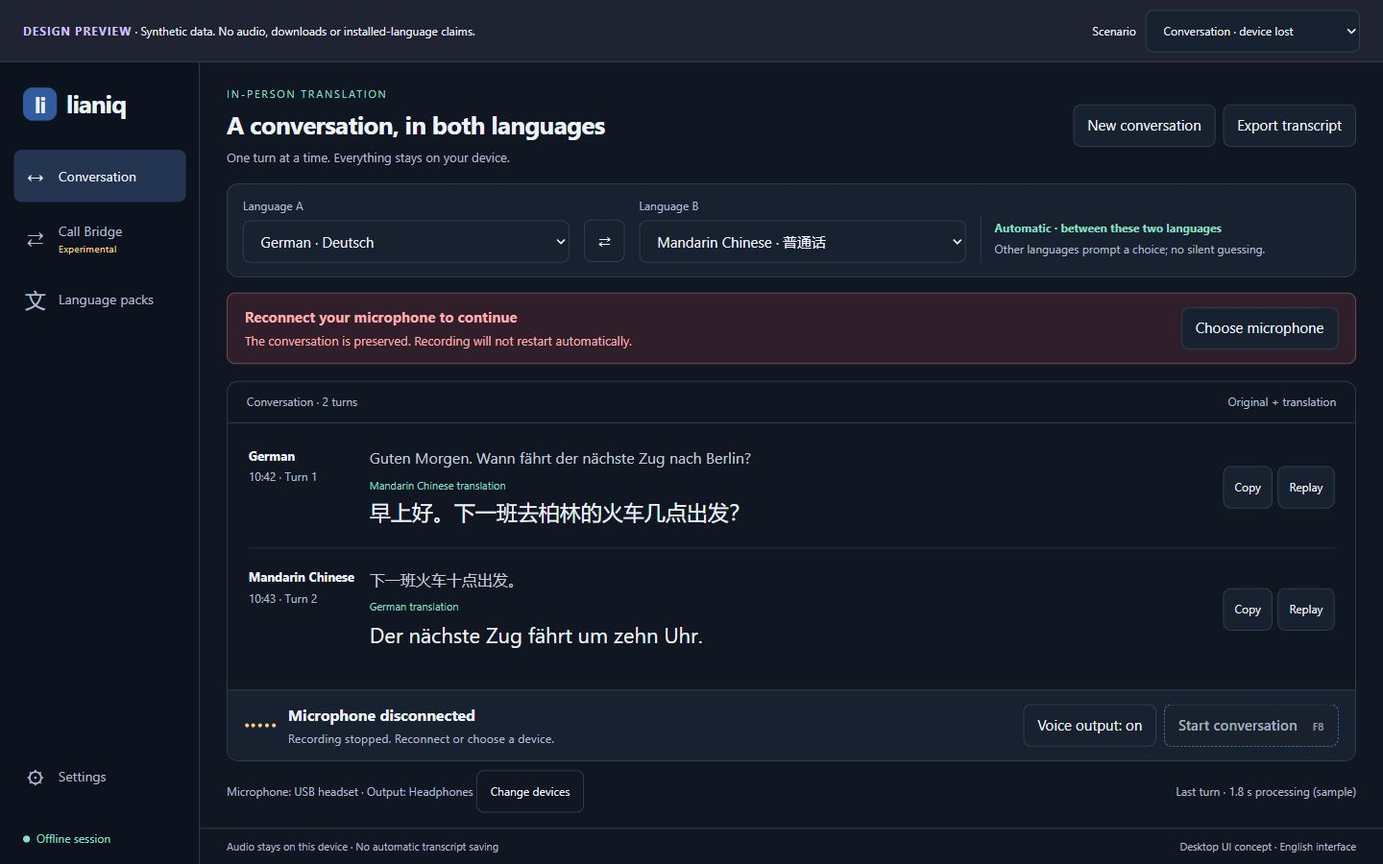
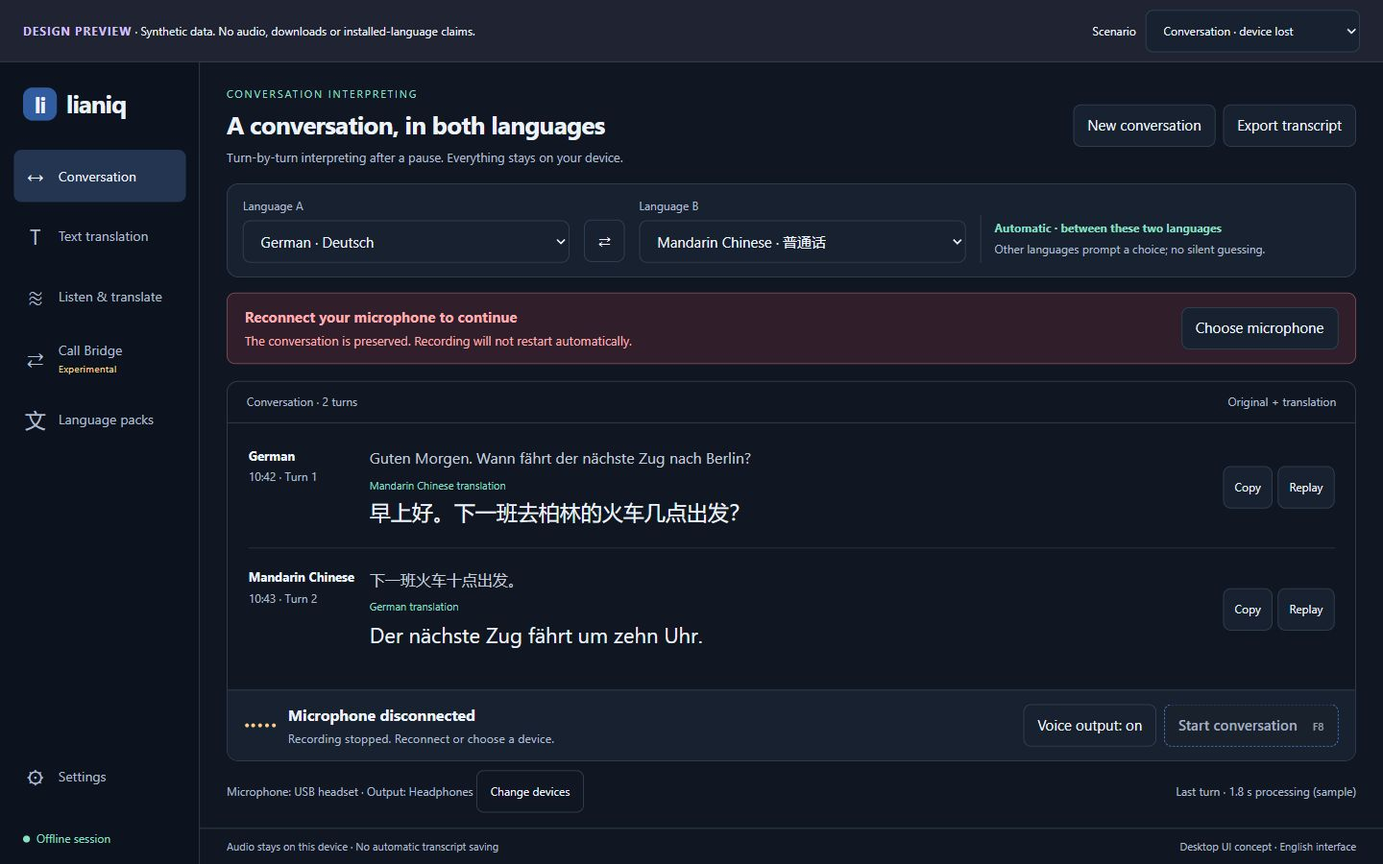
docs: add typed translation and silent listening workflows

diff --git a/docs/ui/target/preview.js b/docs/ui/target/preview.js
@@ -13,14 +13,16 @@ const examples = {
 };
 let state = 'conversation', first = 'de', second = 'zh', turns = true, setupStep = 0;
 let bridgeConfigured = false, tested = new Set();
+let textDraft = examples.de[0], textResult = true;
 const $ = selector => document.querySelector(selector);
 const name = code => languages[code].name;
 const pairReady = () => ['de-zh','zh-de','en-es','es-en'].includes(`${first}-${second}`);
 const voicesReady = () => pairReady() && ![first,second].includes('es');
 const options = selected => Object.entries(languages).map(([code, value]) => `<option value="${code}" ${code === selected ? 'selected' : ''}>${value.name} · ${value.native}</option>`).join('');
 function notify(message) { $('#toast').textContent = message; $('#toast').hidden = false; clearTimeout(window.toastTimer); window.toastTimer = setTimeout(() => $('#toast').hidden = true, 4500); }
-function view() { return state.startsWith('bridge') ? 'bridge' : ['languages', 'setup'].includes(state) ? state : 'conversation'; }
+function view() { return state.startsWith('bridge') ? 'bridge' : state.startsWith('speech-text') ? 'speech-text' : state.startsWith('text') ? 'text' : ['languages', 'setup'].includes(state) ? state : 'conversation'; }
 function pair() {
+  if (['text','speech-text'].includes(view())) return `<div class="pair-bar"><label class="field">Source language<select id="language-a">${options(first)}</select></label><button class="swap" data-action="swap" aria-label="Swap selected languages">⇄</button><label class="field">Target language<select id="language-b">${options(second)}</select></label><div class="pair-note"><strong>${view()==='text'?'One direction · text in, translation out':'One direction · speech in, text out'}</strong>${view()==='text'?'No microphone or speech-recognition model required.':'No spoken output. Only the source language is recognized.'}</div></div>`;
   return `<div class="pair-bar"><label class="field">${view() === 'bridge' ? 'Your language' : 'Language A'}<select id="language-a">${options(first)}</select></label><button class="swap" data-action="swap" aria-label="Swap selected languages">⇄</button><label class="field">${view() === 'bridge' ? 'Partner’s language' : 'Language B'}<select id="language-b">${options(second)}</select></label><div class="pair-note"><strong>${view() === 'bridge' ? 'Fixed direction for each audio lane' : 'Automatic · between these two languages'}</strong>${view() === 'bridge' ? 'Change the pair only while stopped.' : 'Other languages prompt a choice; no silent guessing.'}</div></div>`;
 }
 function heading(eyebrow, title, subtitle, actions = '') {return `<div class="heading"><div><div class="eyebrow">${eyebrow}</div><h1>${title}</h1><p>${subtitle}</p></div><div class="actions">${actions}</div></div>`;}
@@ -33,7 +35,7 @@ function conversation() {
   const empty = state === 'loading' || !turns;
   const status = {conversation:['Listening','Speak in short turns. Pause when you finish.'],ready:['Ready to start','Your microphone is off.'],speaking:['Speaking · microphone paused','Please wait until listening resumes.'],translating:['Translating','Your turn is being processed locally.'],loading:['Loading offline models','Preparing speech recognition and translation…'],error:['Microphone disconnected','Recording stopped. Reconnect or choose a device.']}[state];
   const blocked = ['loading','error'].includes(state) || !pairReady();
-  return heading('In-person translation','A conversation, in both languages','One turn at a time. Everything stays on your device.', '<button data-action="new">New conversation</button><button data-action="export" '+(empty?'disabled':'')+'>Export transcript</button>') + pair() + capabilityWarning() +
+  return heading('Conversation interpreting','A conversation, in both languages','Turn-by-turn interpreting after a pause. Everything stays on your device.', '<button data-action="new">New conversation</button><button data-action="export" '+(empty?'disabled':'')+'>Export transcript</button>') + pair() + capabilityWarning() +
   (state === 'error' ? '<div class="banner error" role="alert"><div><strong>Reconnect your microphone to continue</strong><p>The conversation is preserved. Recording will not restart automatically.</p></div><button data-view="setup">Choose microphone</button></div>' : '') +
   `<section class="conversation" aria-label="Conversation transcript"><div class="section-bar"><span>Conversation ${empty?'':'· 2 turns'}</span><span>Original + translation</span></div><div class="turns">` +
   (empty ? `<div class="empty"><div class="symbol" aria-hidden="true">↔</div><h2>${state === 'loading' ? 'Preparing your languages' : 'Make room for understanding'}</h2><p>${state === 'loading' ? 'The first start may take longer. Your microphone is still off.' : 'Press Start, speak in either selected language, then pause for the translation.'}</p></div>` : [0,1].map(i=>{const source=i?second:first,target=i?first:second;return `<article class="turn"><div class="turn-meta"><strong>${name(source)}</strong><span>10:4${i+2} · Turn ${i+1}</span></div><div><p class="original" lang="${source}" dir="auto">${examples[source][i]}</p><div class="translation" lang="${target}" dir="auto"><small lang="en">${name(target)} translation</small>${examples[target][i]}</div></div><div class="turn-actions"><button data-action="copy" data-turn="${i}" aria-label="Copy turn ${i+1}">Copy</button><button data-action="replay" ${target==='es'?'disabled title="Spanish voice not installed"':''} aria-label="Replay turn ${i+1} translation">Replay</button></div></article>`;}).join('')) +
@@ -55,29 +57,55 @@ function setup() {
   (setupStep===0?`<p>Select the languages spoken in this conversation. Interface language is a separate setting.</p><div class="settings-fields"><label class="field">Language A<select id="language-a">${options(first)}</select></label><label class="field">Language B<select id="language-b">${options(second)}</select></label></div>${capabilityWarning()}<div class="help">Automatic detection is limited to this pair. If recognition is uncertain or another language is detected, the app asks you to choose instead of translating into an arbitrary language.</div><button data-view="languages">Review model and voice readiness</button>`:
   setupStep===1?'<p>Generic devices below illustrate the setup flow.</p><div class="settings-fields"><label class="field">Microphone<select><option>USB headset · microphone</option></select></label><label class="field">Playback device<select><option>Headphones · local playback</option></select></label></div><div class="actions"><button data-action="mic-test">Test microphone</button><button data-action="speaker-test">Play test sound</button><button data-action="refresh">Refresh devices</button></div><div class="help">A disconnected or ambiguous device requires your attention. Call Bridge never switches silently to Windows default audio.</div>':`<p>${name(first)} ↔ ${name(second)}</p><div class="help"><strong>Example readiness summary</strong><br>✓ Speech recognition for both selected languages<br>✓ Both translation directions<br>✓ Microphone and headphones selected<br>Voice output is optional for in-person text translation.</div><label class="check"><input type="checkbox" ${voicesReady()?'checked':'disabled'}> Enable spoken translations when both voices are ready</label><p class="muted">No transcript is saved automatically. Export only when you choose.</p>`) + `<div class="bridge-footer"><button data-action="setup-back" ${setupStep===0?'disabled':''}>Back</button><button class="primary" data-action="setup-next" ${!pairReady()?'disabled':''}>${setupStep===2?'Open conversation':'Continue'}</button></div></section></div>`;
 }
+function escapeText(value) {return value.replaceAll('&','&amp;').replaceAll('<','&lt;').replaceAll('>','&gt;').replaceAll('"','&quot;');}
+function textTranslation() {
+  const speaking = state === 'text-speaking', voiceReady = pairReady() && second !== 'es';
+  return heading('Text translation','Write it. Translate it. Say it.','Translate locally, then read or play the translated text.') + pair() + capabilityWarning() +
+    `<div class="translation-workspace"><section class="editor-panel"><div class="section-bar"><label for="source-draft">${name(first)} · Your text</label><span>Editable source</span></div><textarea id="source-draft" lang="${first}" dir="auto" placeholder="Type or paste text to translate…" ${speaking?'disabled':''}>${escapeText(textDraft)}</textarea><div class="editor-actions"><small>No microphone access</small><button class="primary" data-action="translate-text" ${!pairReady()||speaking||!textDraft.trim()?'disabled':''}>Translate</button></div></section><section class="editor-panel"><div class="section-bar"><span>${name(second)} · Translation</span><span>Always visible when speaking</span></div><div class="translated-draft" lang="${second}" dir="auto">${textResult&&pairReady()?examples[second][0]:'Your translation will appear here.'}</div><div class="editor-actions"><button data-action="copy-text" ${!textResult||!pairReady()?'disabled':''}>Copy translation</button><button data-action="${speaking?'stop-text-speech':'speak-text'}" ${!textResult||!voiceReady?'disabled':''}>${speaking?'Stop playback':'Play translation'}</button></div></section></div><div class="session-controls text-status"><div class="status" role="status"><div class="meter paused" aria-hidden="true"><i></i><i></i><i></i></div><div><strong>${speaking?'Speaking the translation':!voiceReady?'Text available · target voice unavailable':'Text translation ready'}</strong><small>${speaking?'The translated text remains visible. Your microphone stays off.':!voiceReady?'Install the target-language voice to play this translation.':'Playback is optional and starts only when you choose Play translation.'}</small></div></div><span class="badge">Microphone off</span></div><p class="notice">Preview: Translate works with the supplied example sentence only. Other input is preserved, but no translation engine runs in this mockup.</p>`;
+}
+function speechToText() {
+  const listening = state === 'speech-text';
+  return heading('Speech-to-translated-text','Listen in one language. Read in another.','A fixed source and target. Translation appears after each speech pause.','<button data-action="export">Export transcript</button>') + pair() + capabilityWarning() +
+    `<section class="conversation"><div class="section-bar"><span>Recognized speech + translated text</span><span>No voice output</span></div><div class="turns">${[0,1].map((i)=>`<article class="turn"><div class="turn-meta"><strong>${name(first)}</strong><span>Segment ${i+1}</span></div><div><p class="original" lang="${first}" dir="auto">${examples[first][i]}</p><div class="translation" lang="${second}" dir="auto"><small lang="en">${name(second)} translation</small>${examples[second][i]}</div></div></article>`).join('')}</div><div class="session-controls"><div class="status" role="status"><div class="meter ${listening?'':'paused'}" aria-hidden="true"><i></i><i></i><i></i><i></i></div><div><strong>${listening?'Listening to '+name(first):'Stopped · transcript preserved'}</strong><small>${listening?'Translating into '+name(second)+'. Speakers remain silent.':'Microphone off. Resume when you are ready.'}</small></div></div><button class="${listening?'danger':'primary'}" data-action="${listening?'stop-speech-text':'start-speech-text'}" ${!pairReady()?'disabled':''}>${listening?'Stop listening':'Start listening'} <span class="key">${listening?'F9':'F8'}</span></button></div></section><div class="device-strip"><span>Microphone: USB headset <button data-view="setup">Change microphone</button></span><span>No voice model or speaker device required</span></div>`;
+}
 function render() {
   $('#content').dataset.surface = view();
   document.querySelectorAll('[data-view]').forEach(el=>el.removeAttribute('aria-current'));
   document.querySelector(`nav [data-view="${view()}"]`).setAttribute('aria-current','page');
   $('#scenario').value=state;
-  $('#content').innerHTML = view()==='bridge'?bridge():view()==='languages'?packs():view()==='setup'?setup():conversation();
-  const locked = ['conversation','speaking','translating','bridge-live','bridge-error'].includes(state);
+  $('#content').innerHTML = view()==='text'?textTranslation():view()==='speech-text'?speechToText():view()==='bridge'?bridge():view()==='languages'?packs():view()==='setup'?setup():conversation();
+  const locked = ['conversation','speaking','translating','bridge-live','bridge-error','text-speaking','speech-text'].includes(state);
   document.querySelectorAll('#language-a,#language-b,[data-action="swap"]').forEach(el=>el.disabled=locked);
 }
 function navigate(next) {clearTimeout(window.toastTimer); $('#toast').hidden=true; state=next;location.hash=next;render();}
-$('#scenario').addEventListener('change', e=>{ if(e.target.value==='ready')turns=false; else if(['conversation','speaking','translating'].includes(e.target.value))turns=true; navigate(e.target.value); });
+$('#scenario').addEventListener('change', e=>{ if(e.target.value==='ready')turns=false; else if(['conversation','speaking','translating'].includes(e.target.value))turns=true; if(e.target.value.startsWith('text')){textDraft=examples[first][0];textResult=true;} navigate(e.target.value); });
 document.addEventListener('change', e=>{
   if(e.target.id==='language-a') first=e.target.value;
   else if(e.target.id==='language-b') second=e.target.value;
   else if(e.target.matches('.route-select')) {bridgeConfigured=[...document.querySelectorAll('.route-select')].every(s=>s.value);tested.clear(); const button=$('[data-action="bridge-start"]');button.disabled=true;return;}
   else return;
+  if(view()==='text'){textDraft=examples[first][0];textResult=false;}
   tested.clear();render();
+});
+document.addEventListener('input', e=>{
+  if(e.target.id!=='source-draft')return;
+  textDraft=e.target.value;textResult=false;
+  $('.translated-draft').textContent='Source changed. Translate again to update the result.';
+  $('[data-action="speak-text"]').disabled=true;
+  $('[data-action="copy-text"]').disabled=true;
+  $('[data-action="translate-text"]').disabled=!textDraft.trim()||!pairReady();
 });
 document.addEventListener('click', async e=>{
   const button=e.target.closest('button'); if(!button||button.disabled)return;
-  if(button.dataset.view){navigate(button.dataset.view==='conversation'?'ready':button.dataset.view);return;}
+  if(button.dataset.view){navigate(button.dataset.view==='conversation'?'ready':button.dataset.view==='speech-text'?'speech-text-ready':button.dataset.view);return;}
   switch(button.dataset.action){
-    case 'swap': [first,second]=[second,first];tested.clear();render();break;
+    case 'swap': [first,second]=[second,first];if(view()==='text'){textDraft=examples[first][0];textResult=false;}tested.clear();render();break;
+    case 'translate-text':if(textDraft.trim()!==examples[first][0]){notify('Preview only: arbitrary text is not translated. Use the supplied sample or keep your draft for design review.');return;}textResult=true;render();break;
+    case 'speak-text':navigate('text-speaking');break;
+    case 'stop-text-speech':navigate('text');break;
+    case 'start-speech-text':navigate('speech-text');break;
+    case 'stop-speech-text':navigate('speech-text-ready');break;
+    case 'copy-text':try{await navigator.clipboard.writeText(examples[second][0]);notify('Example translation copied.');}catch{notify('Clipboard unavailable.');}break;
     case 'start':turns=true;navigate('conversation');break;
     case 'stop':navigate('ready');break;
     case 'new':if(confirm('Clear the example conversation? Unsaved turns will be removed.')){turns=false;navigate('ready');}break;
@@ -95,7 +123,7 @@ document.addEventListener('click', async e=>{
     default:notify('Preview only: no device access, downloads or sound.');
   }
 });
-document.addEventListener('keydown', e=>{if(e.key==='F9'){e.preventDefault();navigate(view()==='bridge'?'bridge':'ready');}if(e.key==='F8'&&view()==='conversation'&&state==='ready'&&pairReady()){e.preventDefault();turns=true;navigate('conversation');}});
+document.addEventListener('keydown', e=>{if(e.key==='F9'){e.preventDefault();navigate(view()==='text'?'text':view()==='speech-text'?'speech-text-ready':view()==='bridge'?'bridge':'ready');}if(e.key==='F8'&&view()==='conversation'&&state==='ready'&&pairReady()){e.preventDefault();turns=true;navigate('conversation');}else if(e.key==='F8'&&state==='speech-text-ready'&&pairReady()){e.preventDefault();navigate('speech-text');}});
 window.addEventListener('hashchange',()=>{const next=location.hash.slice(1);if([...$('#scenario').options].some(o=>o.value===next)){state=next;render();}});
 if([...$('#scenario').options].some(o=>o.value===location.hash.slice(1)))state=location.hash.slice(1);
 if(state==='ready')turns=false;

diff --git a/docs/ui/target/styles.css b/docs/ui/target/styles.css
@@ -48,6 +48,7 @@
 .app-header nav button:last-child {margin-top:auto}
 .nav-icon {width:24px;flex-shrink:0;text-align:center;font-size:22px}
 .nav-label {font-size:14px}
+.nav-hint {display:block;color:var(--muted);font-size:11px}
 .tiny {margin-top:4px}
 .privacy {margin:0;padding:0 10px}
 main {min-width:0;min-height:0;overflow:auto;padding:24px 28px 16px}
@@ -66,7 +67,7 @@ h1 {font-size:26px}
 .bridge-footer {margin-top:14px}
 .pack {padding:15px 0;grid-template-columns:minmax(130px,1fr) 1.2fr 1fr auto}
 .table-head {grid-template-columns:minmax(130px,1fr) 1.2fr 1fr auto}
-main[data-surface="conversation"] {display:flex;flex-direction:column}
+main[data-surface="conversation"],main[data-surface="text"],main[data-surface="speech-text"] {display:flex;flex-direction:column}
 .conversation {display:flex;flex-direction:column;flex:1;min-height:260px}
 .turns {min-height:0;flex:1;overflow:auto}
 .turn {grid-template-columns:110px minmax(0,1fr) auto;gap:16px}
@@ -75,6 +76,12 @@ main[data-surface="conversation"] {display:flex;flex-direction:column}
 .empty {min-height:240px}
 .device-strip {margin-top:10px}
 .setup {grid-template-columns:180px minmax(0,1fr);gap:24px}
+.translation-workspace {display:grid;grid-template-columns:minmax(0,1fr) minmax(0,1fr);gap:18px;flex:1;min-height:280px}
+.editor-panel {display:flex;flex-direction:column;min-width:0;border:1px solid var(--line);border-radius:var(--radius);overflow:hidden}
+.editor-panel textarea,.translated-draft {flex:1;min-height:180px;padding:24px;font:22px/1.65 "Segoe UI",system-ui,sans-serif;color:var(--text);background:var(--well);border:0;resize:none;overflow:auto;overflow-wrap:anywhere}
+.editor-panel textarea:focus-visible {outline:3px solid var(--focus);outline-offset:-4px}
+.editor-actions {display:flex;align-items:center;justify-content:space-between;gap:12px;flex-wrap:wrap;padding:14px;background:var(--panel)}
+.text-status {margin-top:16px;border:1px solid var(--line);border-radius:var(--radius)}
 main[data-surface="bridge"] .panel {padding:14px}
 main[data-surface="bridge"] .route-head {margin-bottom:10px}
 main[data-surface="bridge"] .route-step {padding-bottom:8px}
@@ -100,6 +107,7 @@ main[data-surface="bridge"] .bridge-footer {position:sticky;bottom:0;background:
 @media(max-width:760px) {
   .app {height:calc(100vh - 114px)}
   .two-col,.setup {grid-template-columns:minmax(0,1fr)}
+  .translation-workspace {grid-template-columns:minmax(0,1fr);flex:none}
   .pack {grid-template-columns:minmax(0,1fr) minmax(0,1fr)}
   .table-head {display:none}
   .heading,.session-controls,.device-strip,.bridge-footer {align-items:flex-start;flex-direction:column}

diff --git a/docs/ui/target/index.html b/docs/ui/target/index.html
@@ -17,6 +17,10 @@
       <option value="translating">Conversation · translating</option>
       <option value="loading">Conversation · loading</option>
       <option value="error">Conversation · device lost</option>
+      <option value="text">Text translation · text result</option>
+      <option value="text-speaking">Text translation · spoken result</option>
+      <option value="speech-text">Speech to text · listening</option>
+      <option value="speech-text-ready">Speech to text · ready</option>
       <option value="bridge">Call Bridge · setup</option>
       <option value="bridge-live">Call Bridge · active</option>
       <option value="bridge-error">Call Bridge · muted lane</option>
@@ -29,6 +33,8 @@
       <a class="brand" href="#conversation" aria-label="Lianiq conversation"><span class="brand-mark">li</span>lianiq</a>
       <nav aria-label="Main navigation">
         <button data-view="conversation" title="Conversation" aria-label="Conversation"><span class="nav-icon" aria-hidden="true">↔</span><span class="nav-label">Conversation</span></button>
+        <button data-view="text" title="Text translation" aria-label="Text translation"><span class="nav-icon" aria-hidden="true">T</span><span class="nav-label">Text translation</span></button>
+        <button data-view="speech-text" title="Listen & translate" aria-label="Listen & translate"><span class="nav-icon" aria-hidden="true">≋</span><span class="nav-label">Listen &amp; translate</span></button>
         <button data-view="bridge" title="Call Bridge — experimental" aria-label="Call Bridge — experimental"><span class="nav-icon" aria-hidden="true">⇄</span><span class="nav-label">Call Bridge <span class="tiny">Experimental</span></span></button>
         <button data-view="languages" title="Language packs" aria-label="Language packs"><span class="nav-icon" aria-hidden="true">文</span><span class="nav-label">Language packs</span></button>
         <button data-view="setup" title="Settings" aria-label="Settings"><span class="nav-icon" aria-hidden="true">⚙</span><span class="nav-label">Settings</span></button>

diff --git a/docs/ui/target/README.md b/docs/ui/target/README.md
@@ -17,11 +17,13 @@ required. The server is loopback-only. Copy uses the browser clipboard when perm
 all audio, device tests, provisioning and export operations are explicitly simulated.
 
 The Scenario selector is a review control outside the proposed application shell.
-It exposes eleven states across four primary surfaces:
+It exposes fifteen states across six primary surfaces:
 
 | Surface | Preview states | Design intent |
 |---|---|---|
 | Conversation | Listening, ready/empty, loading, translating, speaking, device lost | Paired turns dominate the screen; capture state is explicit |
+| Text translation | Text result, spoken result | Typed source and visible translated text, with explicit optional playback |
+| Listen & translate | Listening, stopped | Fixed source→target speech translation with no spoken output |
 | Call Bridge | Setup, active, incoming lane muted | Two understandable routes with independent health |
 | Language packs | Ready, missing voice, unvalidated language/direction | Show capabilities rather than a misleading supported-language list |
 | Settings / first run | Choose languages, check audio, review readiness | A short path to the first successful turn |
@@ -34,7 +36,7 @@ executing it. The local browser preview is reviewable design intent, not native 
 
 - Desktop-first landscape layout: persistent left sidebar, Settings at the bottom, and a wide workspace. At smaller widths the sidebar becomes an accessible icon rail, never top tabs. Primary review sizes are 1440x900 and 1280x720; smaller windows are resilience checks.
 - Retain the dark, restrained visual identity. Use the transcript as the primary workspace.
-- Separate Conversation, experimental Call Bridge, Language packs and Settings. Stop must
+- Separate Conversation, Text translation, Listen & translate, experimental Call Bridge, Language packs and Settings. Stop must
   remain accessible across the real app while a session is active. The preview switches
   illustrative screens; it is not a production navigation/session controller.
 - English UI copy is independent of conversation languages. Do not use flags as language
@@ -42,7 +44,7 @@ executing it. The local browser preview is reviewable design intent, not native 
 - Conversation uses **one selected pair**, with automatic detection within that pair or
   explicit fixed-source mode. More than two simultaneous conversation languages are out of
   scope. English, Spanish and French are future examples, not supported-model promises.
-- A direction is available only with validated recognition and directed MT capabilities.
+- A direction is available only with the capabilities needed for the chosen input/output mode. Text input needs directed MT; microphone input additionally needs source recognition.
   Reverse support is not inferred. Voice readiness is evaluated separately. No implicit
   pivot translation or cloud fallback is introduced.
 - The preview's fixture matrix contains de↔zh and en↔es text directions; Spanish has a
@@ -123,3 +125,35 @@ See [issue-index.md](issue-index.md) for all work items and dependencies.
 ## Preview validation
 
 See [verification.md](verification.md) for checks actually performed and limitations.
+
+## Input and output modes
+
+The existing capability is **Conversation interpreting** (Gesprächsdolmetschen), with
+**Conversation** as its short navigation label. It is turn-based after speech pauses, not
+a promise of simultaneous word-by-word interpreting.
+
+| User intent | Input | Output | Minimum capabilities | Workspace |
+|---|---|---|---|---|
+| Conversation interpreting | Spoken turns in either selected language | Source + translated text, optional speech | STT for both sources + both MT directions; TTS only for spoken outputs | Conversation |
+| Text-to-text translation | Typed/pasted source | Translated text | Directed source→target MT only | Text translation |
+| Text-to-translated-speech | Typed/pasted source | Visible translated text + explicit playback | Directed MT + target voice + playback device | Text translation |
+| Speech-to-translated-text | Microphone, fixed source language | Source transcript + translated text, silent speakers | Source STT + directed MT + microphone | Listen & translate |
+| Translated call | Two explicit audio lanes | Both translated audio streams + text | Both lane STT/MT/TTS + explicit routes | Call Bridge |
+
+No mode depends on models or hardware it does not use. Text-only translation must open
+without STT, voices or a microphone. Silent listening needs no target STT, reverse MT,
+voice or output device. The production implementation must derive readiness from this
+matrix, not from a global all-models-ready flag.
+
+Typed input and output sit side by side on landscape desktops. Translate is explicit;
+Play translation is a second optional action and does not hide text. Source edits or
+language changes invalidate stale results and playback. Preserve draft text and caret
+through status updates. Listen & translate enters with the microphone stopped, uses one
+fixed target, and preserves completed text on Stop. It never synthesizes speech.
+
+The new preview screens use example-only translation; arbitrary text is retained but not
+translated. Scenario selection deliberately resets demo fixtures. Production draft
+preservation, cancel/race handling and model loading are specified in #35 and #36.
+
+The first-run preview currently illustrates Conversation setup. Implementation must ask
+for the task and omit irrelevant audio/model steps for the other modes (#27).

diff --git a/docs/ui/target/gallery.md b/docs/ui/target/gallery.md
@@ -38,3 +38,21 @@ Choose languages, check audio and review readiness before starting.
 
 Open [the interactive preview](index.html) locally to change scenarios and language pairs.
 See the [design contract](README.md) and [implementation backlog](issue-index.md).
+
+## Text translation
+
+Typed source and translated text share one workspace. Optional Play translation uses
+the target voice; the translation remains visible throughout playback. No microphone
+or recognition model is required.
+
+![Text-to-text translation mockup](screenshots/text-translation.jpg)
+
+![Typed text with translated speech mockup](screenshots/text-to-speech.jpg)
+
+## Listen and translate
+
+Speech from one fixed source language is translated into text in the target language.
+No speech is played and no target voice is required. Opening the workspace keeps the
+microphone off until Start listening is pressed.
+
+![Speech-to-translated-text mockup](screenshots/speech-to-text.jpg)

diff --git a/docs/ui/target/verification.md b/docs/ui/target/verification.md
@@ -29,6 +29,17 @@ audio and full application tests are outside this artifact-only change.
 
 ## Limits
 
+### Additional input and output modes
+
+The preview now has fifteen scenarios and six navigation destinations. New Text
+translation and Listen & translate states were checked at 1440x900, 1280x720 and
+850x560 (twelve combinations), with no horizontal main-panel overflow.
+Translated text stayed visible in simulated playback; source edits disabled stale
+playback and copy. Opening Listen & translate left capture stopped; starting locked
+language selection and displayed no playback controls; stopping retained both segments.
+Three new screenshots were added and the original seven regenerated with the expanded
+sidebar. These are prototype UI checks, not real translation/audio acceptance.
+
 ### Left-navigation revision
 
 Following operator feedback, the proposal now uses a persistent left sidebar and a

diff --git a/docs/ui/target/issue-index.md b/docs/ui/target/issue-index.md
@@ -19,6 +19,8 @@ All issues were created at the operator's request on 2026-10-08. Priorities are 
 | [#31](https://github.com/boris-heuer/lianiq/issues/31) | P1: provide persistent actionable errors and privacy-safe diagnostics | #23, #24, #21 |
 | [#32](https://github.com/boris-heuer/lianiq/issues/32) | P2: establish task-based UX acceptance and native Windows regression evidence | #22, #26, #27, #25, #30, #31, #28, #29 |
 | [#33](https://github.com/boris-heuer/lianiq/issues/33) | P3: qualify additional offline language packs for English, Spanish and French | #21, #27, #32 |
+| [#35](https://github.com/boris-heuer/lianiq/issues/35) | P1: Local text translation with optional translated speech | #21, #22, #27, #28, #31 |
+| [#36](https://github.com/boris-heuer/lianiq/issues/36) | P1: One-way speech-to-translated-text | #21, #22, #23, #26, #27, #29, #31 |
 
 ## Scope boundaries
 
